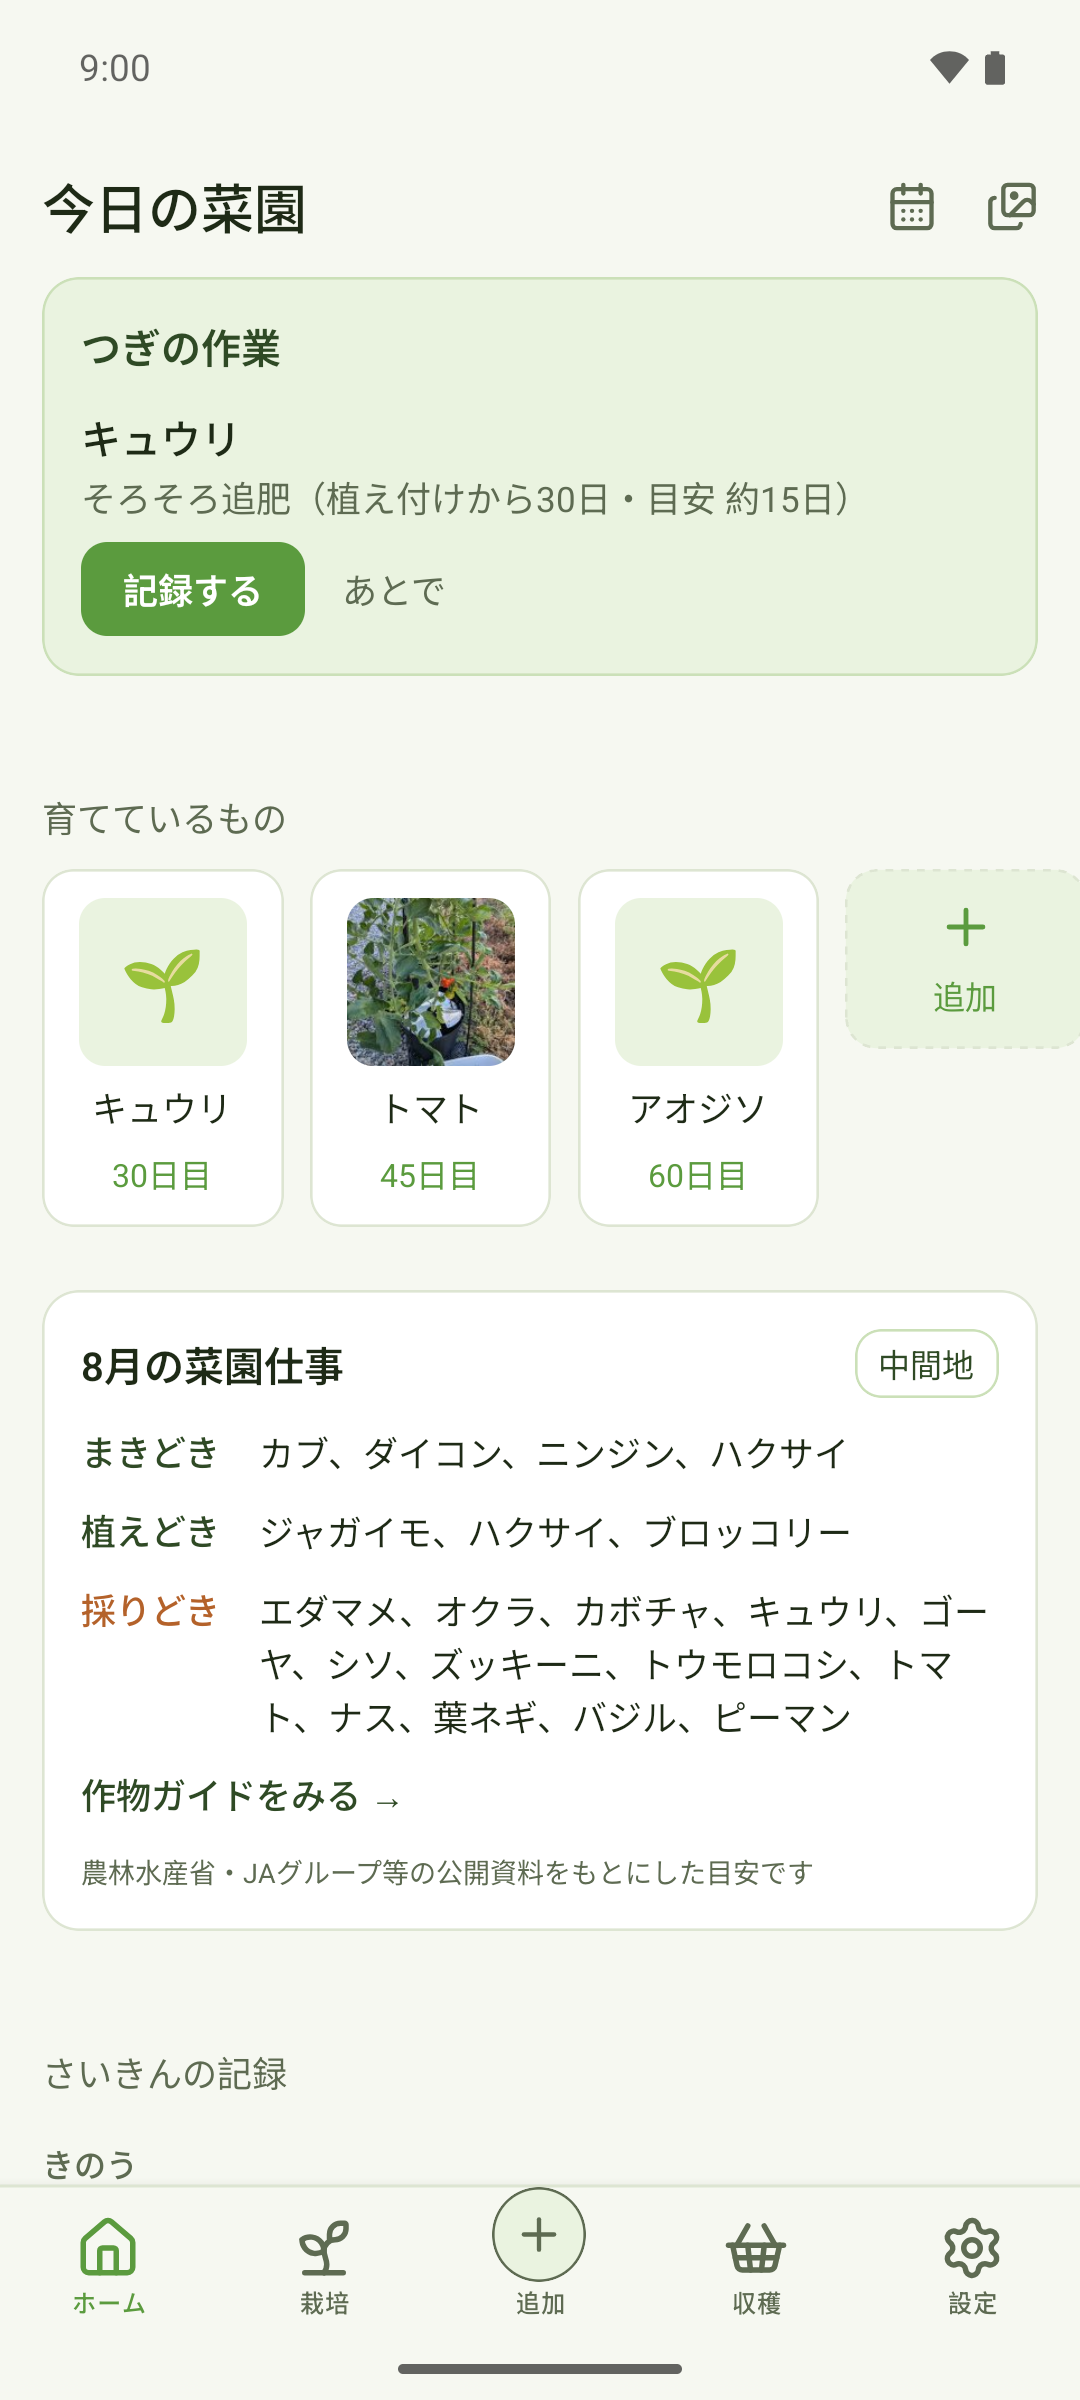
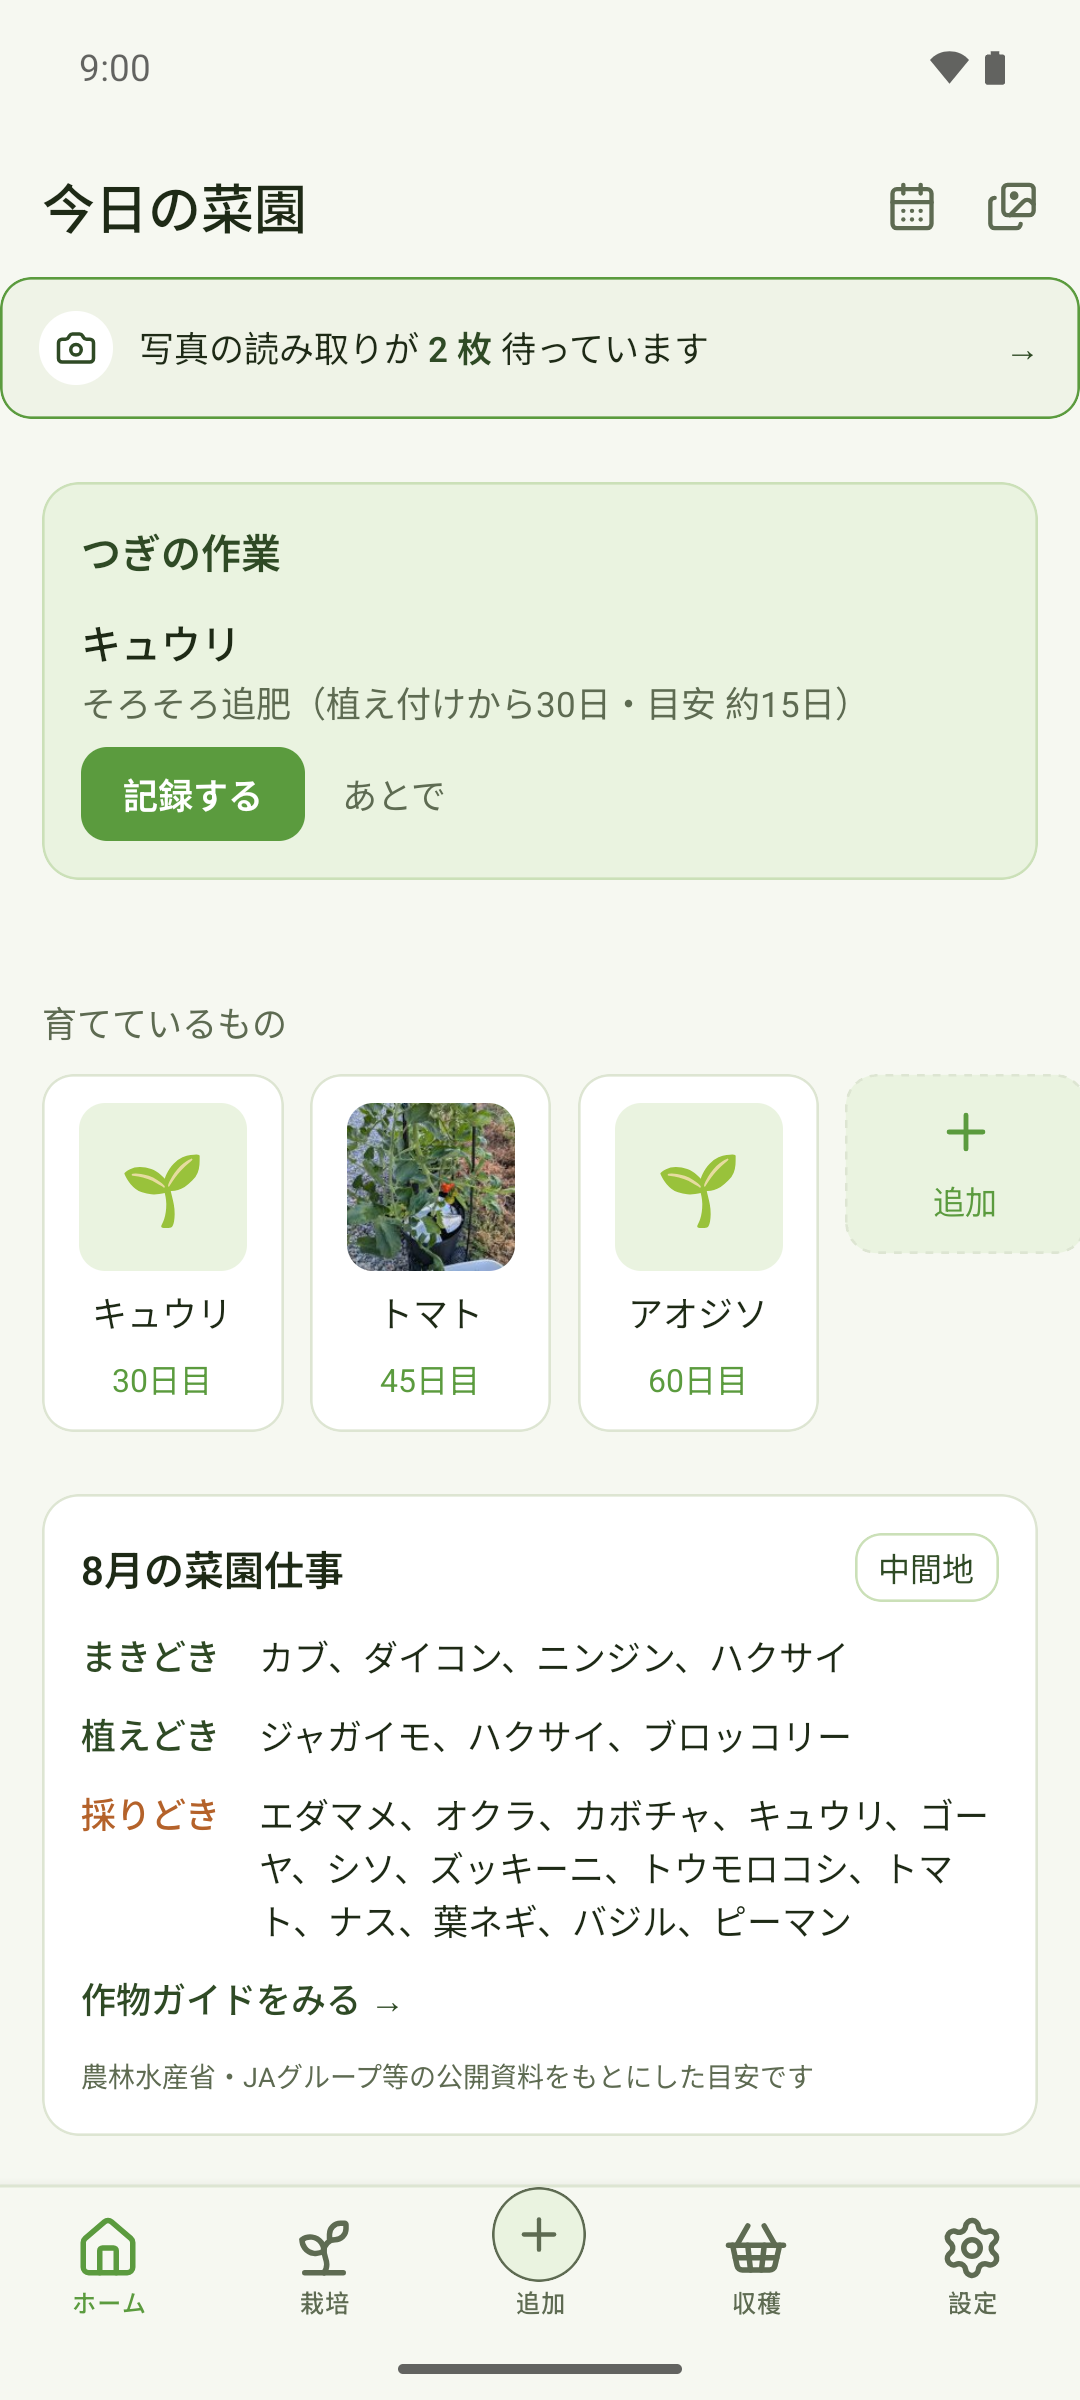
docs(store): 1.1 の掲載物を更新し、写真から記録のスクショを足した
## スクショ: 8 枚目として `08-harvest-reads` を追加（差し替えない）

I8 指示書が「新機能をどう見せるかは Windows 側で決めてここに書く」と
宿題にしていた件を確定させた。既存 7 枚は 1.1 でも実物と合っているので
差し替えず、**1.1 の目玉（#148）が写っていない**ことだけを埋める。

> **I8 の前提を 1 つ訂正した。** 「中央タブが『追加』から『撮る』に変わる」は
> **1.1 では起きていない**（タブは「追加」のまま。中央タブの変更は #143 の
> 残りスコープ）。指示書を実態に合わせた。

Android・iOS 両方の撮影スクリプトに追加したので、Mac 側は `--shots 08` で足りる。

## 主役カードが灰色の枠だった

8 枚目を撮ったら**サムネイルが空**だった。`ownerType: 'harvest'` の写真は
`harvest-01` にしか無く、読み取り行が参照する `harvest-02` / `harvest-05` は
どちらも写真なし。`seed.ts` の「harvest-02（写真つき）」は実態と違っていた。

写真が主役の機能なのに掲載物で灰色の枠しか出ないのは弱いので、
**同梱済みの `harvest-tomato.jpg` を harvest-02 に再利用**した。
`require` が harvest-01 と同一なので **APK の増分はゼロ**。
再シードのため `SAMPLE_DATA_VERSION` を 7 → 8 に上げた。

キュウリ側（harvest-05）は**あえて写真なしのまま**。同梱にキュウリの写真が無く、
トマトの写真を流用すると掲載スクショで作物と中身が食い違う。

## 掲載文の不整合 2 件

**① リリースノートに HTML コメントが混入する構造だった。**
`submit-play-release.mjs` は「## リリースノート」から次の「## 」までを
**丸ごと**送るので、節の中のコメントがそのまま Play の「最新情報」に載る。
見出しの前へ出した（122 文字で確定）。

**② 「（1 日の回数制限あり）」が #151 の変更後は事実と違う。**
Play・App Store 両方の詳しい説明にあった。「（利用回数に制限があります）」へ。
**リリースノートには無料枠の件を書かない**というユーザー判断は守っている
（アプリ内の文言で伝える）が、掲載文に嘘が残るのは別問題として直した。

## 撮影スクリプトの罠を記録

既定の待ち 7 秒（iOS は 6 秒）では**ローディングのスピナーが写る**。
実際に 8 枚全滅した。既定を 12 秒へ上げ、
**「20KB 前後ならスピナー、100KB 前後〜なら中身が出ている」**という
ファイルサイズでの見分け方を両スクリプトに書いた。

## 個人情報の非公開確認（DoD 3 / release-verify §6）

- **同梱写真 4 枚**: EXIF=0 / GPS=0 / 端末名の痕跡なし（既存アセットの再利用のみ）
- **スクショ 8 枚**: PNG のメタデータチャンクが 1 つも無い（IHDR/sRGB/sBIT/IDAT/IEND のみ）。
  07 の生バイトに `GPS` が出るが **IDAT（圧縮画素）内の偶然のバイト列**で誤検知
[…]

diff --git a/apps/mobile/src/db/seed.ts b/apps/mobile/src/db/seed.ts
@@ -363,7 +363,8 @@ export const seedHarvests = [
   },
   {
     // 「写真の読み取り」の読み取り待ち（#143 のスクショ用）。数量なし・写真なしで
-    // キューに乗る形（写真の実体はサンプルに増やさない — 配布サイズを膨らませない）
+    // キューに乗る形。**キュウリの同梱写真が無いので写真は付けない** —
+    // トマトの写真を流用すると掲載スクショで作物と中身が食い違う
     id: 'harvest-05',
     plantingId: 'planting-cucumber-01',
     harvestedAt: daysAgoIso(0),
@@ -382,6 +383,7 @@ export const seedHarvests = [
 export const seedHarvestPhotoReads = [
   {
     // harvest-02（数量なしのトマト・写真つき）: 読み取り済み・確認待ち
+    // 写真は seed-photos.ts の sample-photo-harvest-02（掲載スクショ 08 のヒーロー）
     harvestId: 'harvest-02',
     state: 'analyzed',
     paid: 1,

diff --git a/apps/mobile/src/db/seed-photos.ts b/apps/mobile/src/db/seed-photos.ts
@@ -58,6 +58,15 @@ const SAMPLE_PHOTOS: SamplePhoto[] = [
     ownerId: 'harvest-01',
   },
   {
+    // 「写真の読み取り」の確認カード（#148・ストア掲載スクショ 08）。
+    // **同じアセットを使い回す** — harvest-01 と同じ require なので APK は増えない。
+    // ここが空だと、写真が主役の機能なのに掲載物では灰色の枠しか写らない。
+    id: 'sample-photo-harvest-02',
+    module: require('../../assets/sample-photos/harvest-tomato.jpg'),
+    ownerType: 'harvest',
+    ownerId: 'harvest-02',
+  },
+  {
     id: 'sample-photo-planting-01',
     module: require('../../assets/sample-photos/planting-tomato.jpg'),
     ownerType: 'planting',

diff --git a/apps/mobile/app/(tabs)/plantings/[id]/consult.tsx b/apps/mobile/app/(tabs)/plantings/[id]/consult.tsx
@@ -9,7 +9,7 @@
  *   記録に残したければ作業ログ（写真つき）を使う — 導線は結果画面の下に置く。
  * - 無料枠は usage.service を共有（既定 1 回/日・ビルド時変更可）。
  *   **植物が写っていない判定（isPlant=false）は枠を消費しない** — 撮り損じで
- *   1 日 1 回の枠が飛ぶのは理不尽（だいどこの not_a_dish と同じ扱い）。
+ *   一度きりの無料枠が飛ぶのは理不尽（だいどこの not_a_dish と同じ扱い）。
  * - 免責（Q5）は結果の有無に関係なく常に画面下部に出す。
  */
 import { useFocusEffect, useLocalSearchParams, useRouter } from 'expo-router';

diff --git a/apps/mobile/src/db/migrate.ts b/apps/mobile/src/db/migrate.ts
@@ -44,7 +44,7 @@ const DEFAULT_INVITE_CODE = 'DK0001';
 
 // サンプルデータの中身を変えたら必ず上げる。据え置くと、既にシード済みの端末は
 // appMeta のマーカーが一致して seedDatabase() が即 return し、新しい行が入らない。
-const SAMPLE_DATA_VERSION = '7';
+const SAMPLE_DATA_VERSION = '8';
 const SAMPLE_DATA_META_KEY = 'sample_data_version';
 
 export interface SeedSnapshot {

diff --git a/docs/store/app-store/I8-作業指示-スクショ更新.md b/docs/store/app-store/I8-作業指示-スクショ更新.md
@@ -71,8 +71,26 @@ node scripts/release/capture-ios-screenshots.mjs
 07-materials       資材の在庫
 ```
 
-**新機能をどう見せるかが未定。** 差し替えるのか、8 枚目を足すのか、
-どの状態を写すのかを Windows 側で決めてからここに書く。
+### 決定（2026-08-22・Windows 側で確定）
+
+**8 枚目として `08-harvest-reads` を足す。差し替えない。**
+
+```
+08-harvest-reads   写真から記録（読み取り待ち）  route: harvests/reads
+```
+
+- **差し替えない理由**: 既存 7 枚は 1.1 でも実物と合っている。下の
+  「中央タブが『追加』から『撮る』に変わる」は **1.1 では起きていない**
+  （タブは「追加」のまま。中央タブの変更は #143 の残りスコープで、1.1 に入っていない）。
+  掲載物とずれているのは「新機能が写っていない」ことだけ
+- **足す位置**: 末尾。Play / ASC ともスマホ用は最大 8 枚なので枠に収まる
+- **写す状態**: サンプルデータの `seedHarvestPhotoReads`（読み取り済み 1・待ち 1）。
+  **ルートを開くだけで撮れる**ので、下の「ディープリンクだけでは撮れない」問題は解消済み
+- 両スクリプト（`capture-store-screenshots.mjs` / `capture-ios-screenshots.mjs`）に
+  追加済み。Mac 側は `--shots 08` だけ回せば足りる
+
+> **1.1 の掲載順は変えていない。** 新機能を先頭寄りに出すかは掲載の判断で、
+> 変えるならファイル名の振り直しが要る（順序 = ファイル名）。今回は見送った。
 
 > **ディープリンクだけでは撮れない画面がある。** スクリプトはルートを開いて撮る作りだが、
 > 写真ベースの記録は**対話的**（撮る → 下書き → 確認 → 保存）なので、

diff --git a/docs/store/google-play/listing-ja.md b/docs/store/google-play/listing-ja.md
@@ -59,7 +59,7 @@
 
 ◇ AI 相談
 「下葉が黄色い」「この虫は何？」— 気になるところを撮って送ると、AI が品種の推定や
-考えられる原因、家庭菜園でできる対処を答えます（1 日の回数制限あり）。
+考えられる原因、家庭菜園でできる対処を答えます（利用回数に制限があります）。
 回答は目安です。農薬は必ず製品ラベルと関係法令に従ってご使用ください。
 
 ◇ リマインダー
@@ -96,7 +96,23 @@
 畑でも、ベランダでも、プランターひとつからでも。
 今年の菜園を、来年につながる記録にしていきましょう。
 
-## リリースノート（v1.0）
+<!--
+  リリースノートは**この直後の節が単一ソース**（submit-play-release.mjs が
+  「## リリースノート」から次の「## 」までを丸ごと送る）。
+  **節の中にコメントを置かないこと** — そのまま Play の「最新情報」に載る。
+  **無料枠の変更（1 日 1 回 → インストールごとに 1 回）はここに書かない**
+  （ユーザー判断・2026-08-22。アプリ内の文言で伝える）。
+-->
+
+## リリースノート（v1.1）
+
+収穫の記録が写真だけで終わるようになりました。
+
+・収穫の写真から作物と個数を読み取って、記録の下書きにします
+・数量を入れずに写真だけで記録しておき、あとでまとめて読み取れます
+・入力欄の下のボタンがキーボードに隠れて押せない画面を直しました
+
+## リリースノート（v1.0・提出済み）
 
 さいえん手帳のはじめてのリリースです。
 
